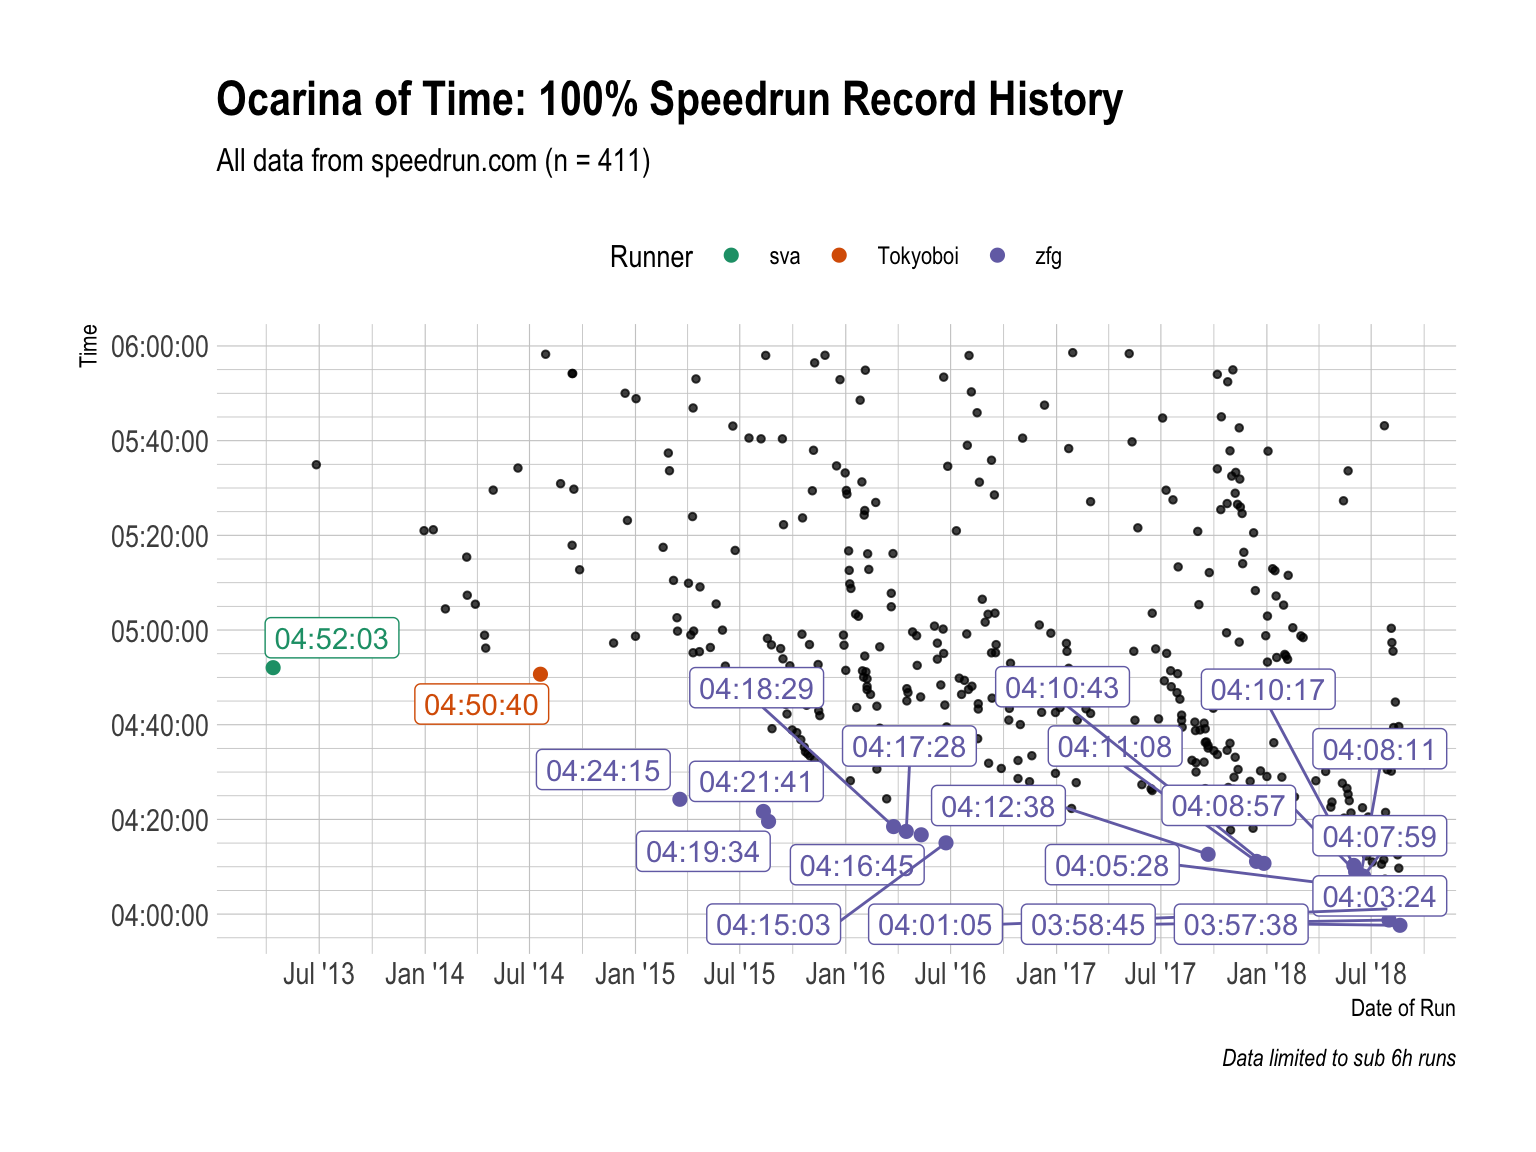
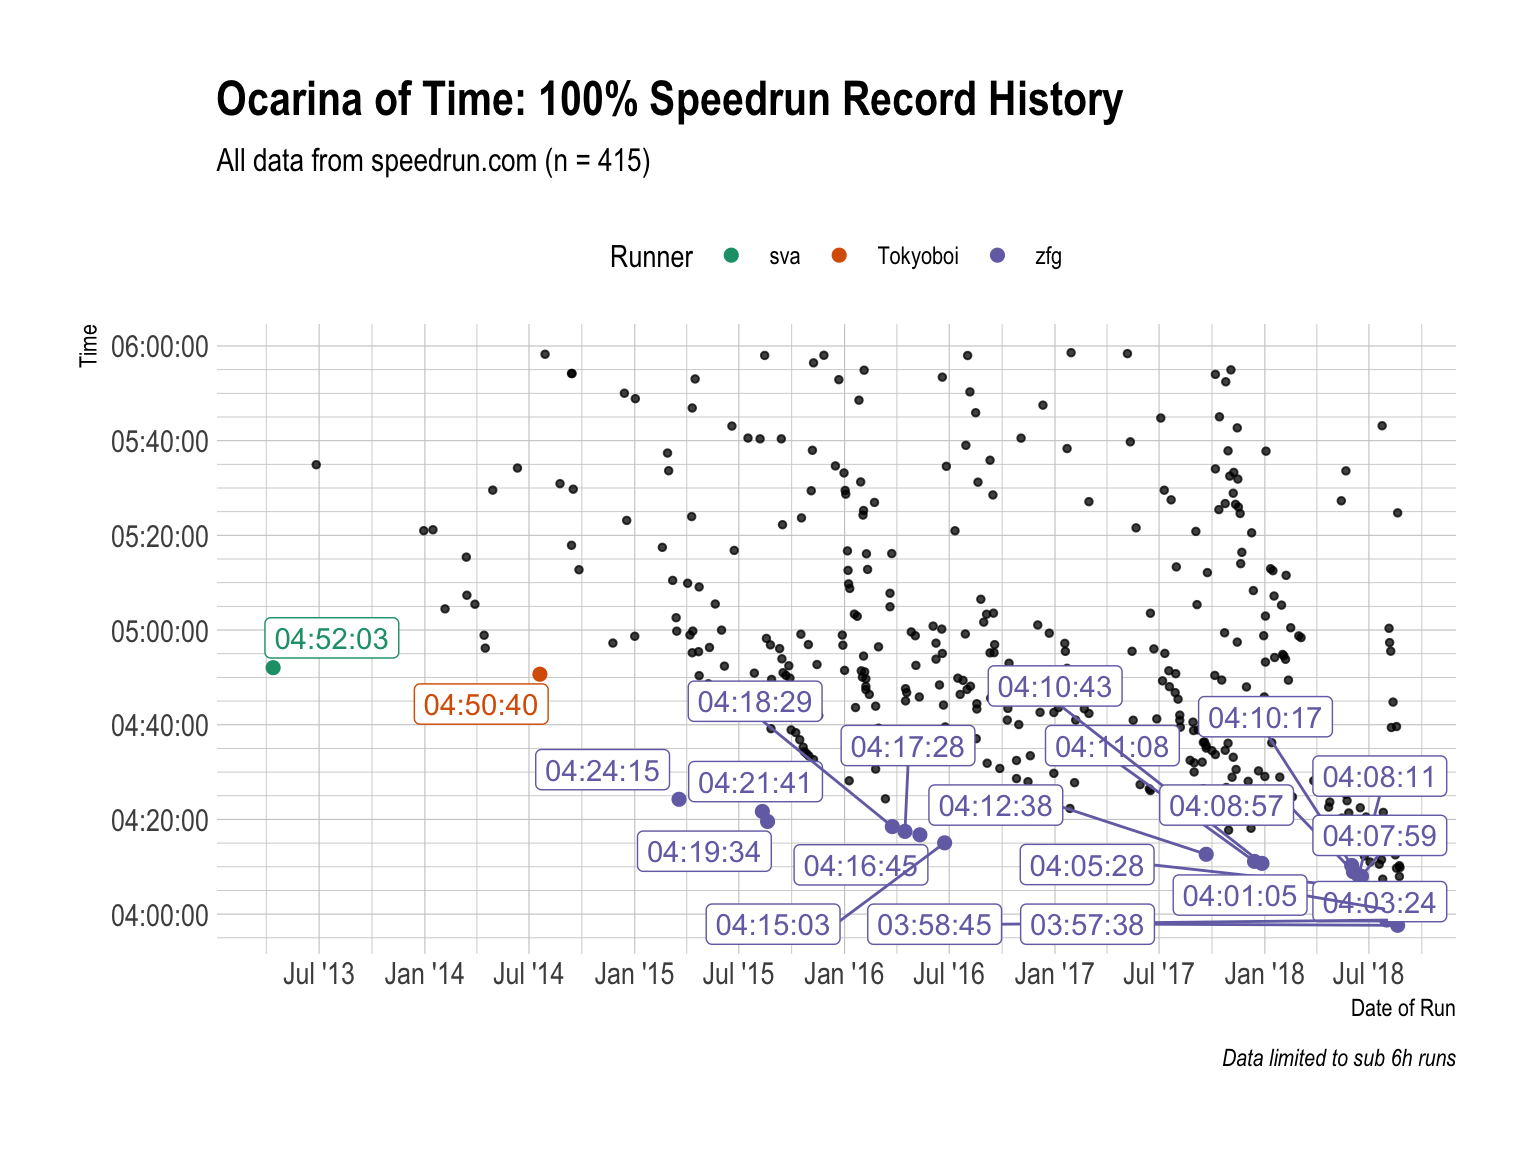
Rebuild everything

diff --git a/docs/articles/ocarina-of-time-100-.html b/docs/articles/ocarina-of-time-100-.html
@@ -82,7 +82,7 @@
       <h1>Ocarina of Time 100%</h1>
                         <h4 class="author">Lukas Burk</h4>
             
-            <h4 class="date">2018-08-21</h4>
+            <h4 class="date">2018-08-28</h4>
       
       <small class="dont-index">Source: <a href="https://github.com/jemus42/speedrunr/blob/master/vignettes/ocarina-of-time-100-.Rmd"><code>vignettes/ocarina-of-time-100-.Rmd</code></a></small>
       <div class="hidden name"><code>ocarina-of-time-100-.Rmd</code></div>
@@ -134,26 +134,26 @@
 <a class="sourceLine" id="cb3-4" data-line-number="4">oot100 &lt;-<span class="st"> </span><span class="kw"><a href="../reference/get_runs.html">get_runs</a></span>(<span class="dt">game =</span> <span class="st">"j1l9qz1g"</span>, <span class="dt">category =</span> <span class="st">"q255jw2o"</span>, <span class="dt">max =</span> <span class="ot">Inf</span>)</a></code></pre></div>
 <p>Note that I’m useing <code>max = Inf</code> to make sure I get <em>all</em> the runs.</p>
 <div class="sourceCode" id="cb4"><pre class="sourceCode r"><code class="sourceCode r"><a class="sourceLine" id="cb4-1" data-line-number="1"><span class="kw">str</span>(oot100)</a>
-<a class="sourceLine" id="cb4-2" data-line-number="2"><span class="co">#&gt; Classes 'tbl_df', 'tbl' and 'data.frame':    520 obs. of  22 variables:</span></a>
-<a class="sourceLine" id="cb4-3" data-line-number="3"><span class="co">#&gt;  $ id             : chr  "z5101qgm" "y89v3n5m" "zg7x36vz" "y6prk36m" ...</span></a>
-<a class="sourceLine" id="cb4-4" data-line-number="4"><span class="co">#&gt;  $ weblink        : chr  "https://www.speedrun.com/oot/run/z5101qgm" "https://www.speedrun.com/oot/run/y89v3n5m" "https://www.speedrun.com/oot/run/zg7x36vz" "https://www.speedrun.com/oot/run/y6prk36m" ...</span></a>
+<a class="sourceLine" id="cb4-2" data-line-number="2"><span class="co">#&gt; Classes 'tbl_df', 'tbl' and 'data.frame':    523 obs. of  22 variables:</span></a>
+<a class="sourceLine" id="cb4-3" data-line-number="3"><span class="co">#&gt;  $ id             : chr  "zp0317rm" "zn4oo77m" "z0369xjz" "z118jkjz" ...</span></a>
+<a class="sourceLine" id="cb4-4" data-line-number="4"><span class="co">#&gt;  $ weblink        : chr  "https://www.speedrun.com/oot/run/zp0317rm" "https://www.speedrun.com/oot/run/zn4oo77m" "https://www.speedrun.com/oot/run/z0369xjz" "https://www.speedrun.com/oot/run/z118jkjz" ...</span></a>
 <a class="sourceLine" id="cb4-5" data-line-number="5"><span class="co">#&gt;  $ game           : chr  "j1l9qz1g" "j1l9qz1g" "j1l9qz1g" "j1l9qz1g" ...</span></a>
 <a class="sourceLine" id="cb4-6" data-line-number="6"><span class="co">#&gt;  $ level          : logi  NA NA NA NA NA NA ...</span></a>
 <a class="sourceLine" id="cb4-7" data-line-number="7"><span class="co">#&gt;  $ category       : chr  "q255jw2o" "q255jw2o" "q255jw2o" "q255jw2o" ...</span></a>
-<a class="sourceLine" id="cb4-8" data-line-number="8"><span class="co">#&gt;  $ videos         : chr  "https://www.youtube.com/watch?v=zvEndHCMsTI" "https://youtu.be/xbkHEIH64kw" "https://youtu.be/I5XIjPs-WgI" "https://www.twitch.tv/videos/298946749" ...</span></a>
+<a class="sourceLine" id="cb4-8" data-line-number="8"><span class="co">#&gt;  $ videos         : chr  "https://youtu.be/UYduGXcjhZ4" "https://www.youtube.com/watch?v=89FA2_ZVpW4" "https://www.youtube.com/watch?v=VqGOGYBs-eA" "https://www.twitch.tv/videos/299897229" ...</span></a>
 <a class="sourceLine" id="cb4-9" data-line-number="9"><span class="co">#&gt;  $ status         : chr  "verified" "verified" "verified" "verified" ...</span></a>
-<a class="sourceLine" id="cb4-10" data-line-number="10"><span class="co">#&gt;  $ comment        : chr  "1st try dampe" "Missed the slash on Ganon, retimed to be 31 seconds, not 29. 6th try Dampe" NA "poop, ill learn jabu ww now" ...</span></a>
-<a class="sourceLine" id="cb4-11" data-line-number="11"><span class="co">#&gt;  $ player_id      : chr  "e8e5v680" "1xym2kmx" "18v6gkvx" "qjn35kwx" ...</span></a>
-<a class="sourceLine" id="cb4-12" data-line-number="12"><span class="co">#&gt;  $ player_url     : chr  "https://www.speedrun.com/user/zfg" "https://www.speedrun.com/user/MasterMonk1991" "https://www.speedrun.com/user/ClaireLynn" "https://www.speedrun.com/user/dannyb21892" ...</span></a>
-<a class="sourceLine" id="cb4-13" data-line-number="13"><span class="co">#&gt;  $ player_name    : chr  "zfg" "MasterMonk1991" "ClaireLynn" "dannyb21892" ...</span></a>
+<a class="sourceLine" id="cb4-10" data-line-number="10"><span class="co">#&gt;  $ comment        : chr  "4th try Dampe and lost a minute and a half to messing up the Twinrova 1 cycle. 4:07 coming soon!" "2nd try Dampe, but lost over 2 minutes in Spirit Temple. Gonna go for 4:07 before I am done with this category for a while." "4th try Dampe, sub 4:05 is my goal." "2nd try bridge clip" ...</span></a>
+<a class="sourceLine" id="cb4-11" data-line-number="11"><span class="co">#&gt;  $ player_id      : chr  "1xym2kmx" "1xym2kmx" "qj2okpxk" "qxk3yw98" ...</span></a>
+<a class="sourceLine" id="cb4-12" data-line-number="12"><span class="co">#&gt;  $ player_url     : chr  "https://www.speedrun.com/user/MasterMonk1991" "https://www.speedrun.com/user/MasterMonk1991" "https://www.speedrun.com/user/Bonooru" "https://www.speedrun.com/user/jfm2796" ...</span></a>
+<a class="sourceLine" id="cb4-13" data-line-number="13"><span class="co">#&gt;  $ player_name    : chr  "MasterMonk1991" "MasterMonk1991" "Bonooru" "jfm2796" ...</span></a>
 <a class="sourceLine" id="cb4-14" data-line-number="14"><span class="co">#&gt;  $ player_role    : chr  "user" "user" "user" "user" ...</span></a>
-<a class="sourceLine" id="cb4-15" data-line-number="15"><span class="co">#&gt;  $ player_signup  : POSIXct, format: "2015-02-17 03:55:57" "2017-01-08 21:04:08" ...</span></a>
-<a class="sourceLine" id="cb4-16" data-line-number="16"><span class="co">#&gt;  $ date           : Date, format: "2018-08-20" "2018-08-16" ...</span></a>
-<a class="sourceLine" id="cb4-17" data-line-number="17"><span class="co">#&gt;  $ submitted      : POSIXct, format: "2018-08-21 04:27:10" "2018-08-19 21:35:59" ...</span></a>
-<a class="sourceLine" id="cb4-18" data-line-number="18"><span class="co">#&gt;  $ time_primary   : int  14258 15151 17841 15269 16777 14982 15251 17087 25422 15329 ...</span></a>
-<a class="sourceLine" id="cb4-19" data-line-number="19"><span class="co">#&gt;  $ time_realtime  : int  14258 15151 17841 15269 16777 14982 15251 17087 25422 15329 ...</span></a>
+<a class="sourceLine" id="cb4-15" data-line-number="15"><span class="co">#&gt;  $ player_signup  : POSIXct, format: "2017-01-08 21:04:08" "2017-01-08 21:04:08" ...</span></a>
+<a class="sourceLine" id="cb4-16" data-line-number="16"><span class="co">#&gt;  $ date           : Date, format: "2018-08-24" "2018-08-23" ...</span></a>
+<a class="sourceLine" id="cb4-17" data-line-number="17"><span class="co">#&gt;  $ submitted      : POSIXct, format: "2018-08-24 10:36:10" "2018-08-23 14:48:18" ...</span></a>
+<a class="sourceLine" id="cb4-18" data-line-number="18"><span class="co">#&gt;  $ time_primary   : int  14990 15014 14877 19485 14258 15151 17841 15269 16777 14982 ...</span></a>
+<a class="sourceLine" id="cb4-19" data-line-number="19"><span class="co">#&gt;  $ time_realtime  : int  14990 15014 14877 19485 14258 15151 17841 15269 16777 14982 ...</span></a>
 <a class="sourceLine" id="cb4-20" data-line-number="20"><span class="co">#&gt;  $ time_ingame    : int  0 0 0 0 0 0 0 0 0 0 ...</span></a>
-<a class="sourceLine" id="cb4-21" data-line-number="21"><span class="co">#&gt;  $ time_hms       : 'hms' num  03:57:38 04:12:31 04:57:21 04:14:29 ...</span></a>
+<a class="sourceLine" id="cb4-21" data-line-number="21"><span class="co">#&gt;  $ time_hms       : 'hms' num  04:09:50 04:10:14 04:07:57 05:24:45 ...</span></a>
 <a class="sourceLine" id="cb4-22" data-line-number="22"><span class="co">#&gt;   ..- attr(*, "units")= chr "secs"</span></a>
 <a class="sourceLine" id="cb4-23" data-line-number="23"><span class="co">#&gt;  $ system_platform: chr  "nzelreqp" "nzelreqp" "nzelreqp" "nzelreqp" ...</span></a>
 <a class="sourceLine" id="cb4-24" data-line-number="24"><span class="co">#&gt;  $ system_emulated: logi  FALSE FALSE FALSE FALSE FALSE FALSE ...</span></a>
@@ -231,23 +231,23 @@
 <td align="left">JPN / NTSC</td>
 </tr>
 <tr class="even">
+<td align="left">04:07:57</td>
+<td align="left">Bonooru</td>
+<td align="left">2018-08-23</td>
+<td align="left">Wii Virtual Console</td>
+<td align="left">JPN / NTSC</td>
+</tr>
+<tr class="odd">
 <td align="left">04:07:59</td>
 <td align="left">zfg</td>
 <td align="left">2018-06-18</td>
 <td align="left">Wii Virtual Console</td>
 <td align="left">JPN / NTSC</td>
 </tr>
-<tr class="odd">
+<tr class="even">
 <td align="left">04:08:11</td>
 <td align="left">zfg</td>
 <td align="left">2018-06-13</td>
-<td align="left">Wii Virtual Console</td>
-<td align="left">JPN / NTSC</td>
-</tr>
-<tr class="even">
-<td align="left">04:08:57</td>
-<td align="left">zfg</td>
-<td align="left">2018-06-04</td>
 <td align="left">Wii Virtual Console</td>
 <td align="left">JPN / NTSC</td>
 </tr>

diff --git a/docs/index.html b/docs/index.html
@@ -365,69 +365,69 @@ Let’s get started:</p>
 <td align="left"><a href="https://www.speedrun.com/user/Marco" class="uri">https://www.speedrun.com/user/Marco</a></td>
 </tr>
 <tr class="even">
+<td align="left">2018-08-23 00:22:32</td>
+<td align="left">04:07:57</td>
+<td align="left"><a href="https://www.speedrun.com/user/Bonooru" class="uri">https://www.speedrun.com/user/Bonooru</a></td>
+</tr>
+<tr class="odd">
 <td align="left">2018-06-19 05:20:57</td>
 <td align="left">04:07:59</td>
 <td align="left"><a href="https://www.speedrun.com/user/zfg" class="uri">https://www.speedrun.com/user/zfg</a></td>
 </tr>
-<tr class="odd">
+<tr class="even">
 <td align="left">2018-06-14 04:01:53</td>
 <td align="left">04:08:11</td>
 <td align="left"><a href="https://www.speedrun.com/user/zfg" class="uri">https://www.speedrun.com/user/zfg</a></td>
 </tr>
-<tr class="even">
+<tr class="odd">
 <td align="left">2018-06-05 03:41:59</td>
 <td align="left">04:08:57</td>
 <td align="left"><a href="https://www.speedrun.com/user/zfg" class="uri">https://www.speedrun.com/user/zfg</a></td>
 </tr>
-<tr class="odd">
+<tr class="even">
 <td align="left">2018-08-18 03:12:47</td>
 <td align="left">04:09:42</td>
 <td align="left"><a href="https://www.speedrun.com/user/Bonooru" class="uri">https://www.speedrun.com/user/Bonooru</a></td>
 </tr>
+<tr class="odd">
+<td align="left">2018-08-24 10:36:10</td>
+<td align="left">04:09:50</td>
+<td align="left"><a href="https://www.speedrun.com/user/MasterMonk1991" class="uri">https://www.speedrun.com/user/MasterMonk1991</a></td>
+</tr>
 <tr class="even">
+<td align="left">2018-08-23 14:48:18</td>
+<td align="left">04:10:14</td>
+<td align="left"><a href="https://www.speedrun.com/user/MasterMonk1991" class="uri">https://www.speedrun.com/user/MasterMonk1991</a></td>
+</tr>
+<tr class="odd">
 <td align="left">2018-06-02 03:35:41</td>
 <td align="left">04:10:17</td>
 <td align="left"><a href="https://www.speedrun.com/user/zfg" class="uri">https://www.speedrun.com/user/zfg</a></td>
 </tr>
-<tr class="odd">
+<tr class="even">
 <td align="left">2018-07-20 01:17:13</td>
 <td align="left">04:10:32</td>
 <td align="left"><a href="https://www.speedrun.com/user/Marco" class="uri">https://www.speedrun.com/user/Marco</a></td>
 </tr>
-<tr class="even">
+<tr class="odd">
 <td align="left">2017-12-28 02:05:48</td>
 <td align="left">04:10:43</td>
 <td align="left"><a href="https://www.speedrun.com/user/zfg" class="uri">https://www.speedrun.com/user/zfg</a></td>
 </tr>
-<tr class="odd">
+<tr class="even">
 <td align="left">2018-07-03 02:09:52</td>
 <td align="left">04:11:00</td>
 <td align="left"><a href="https://www.speedrun.com/user/Marco" class="uri">https://www.speedrun.com/user/Marco</a></td>
 </tr>
-<tr class="even">
+<tr class="odd">
 <td align="left">2017-12-14 04:12:51</td>
 <td align="left">04:11:08</td>
 <td align="left"><a href="https://www.speedrun.com/user/zfg" class="uri">https://www.speedrun.com/user/zfg</a></td>
 </tr>
-<tr class="odd">
+<tr class="even">
 <td align="left">2018-07-23 02:36:34</td>
 <td align="left">04:11:30</td>
 <td align="left"><a href="https://www.speedrun.com/user/Bonooru" class="uri">https://www.speedrun.com/user/Bonooru</a></td>
-</tr>
-<tr class="even">
-<td align="left">2018-06-23 02:17:28</td>
-<td align="left">04:12:17</td>
-<td align="left"><a href="https://www.speedrun.com/user/Marco" class="uri">https://www.speedrun.com/user/Marco</a></td>
-</tr>
-<tr class="odd">
-<td align="left">2018-08-19 21:35:59</td>
-<td align="left">04:12:31</td>
-<td align="left"><a href="https://www.speedrun.com/user/MasterMonk1991" class="uri">https://www.speedrun.com/user/MasterMonk1991</a></td>
-</tr>
-<tr class="even">
-<td align="left">2018-08-13 04:23:12</td>
-<td align="left">04:14:11</td>
-<td align="left"><a href="https://www.speedrun.com/user/MasterMonk1991" class="uri">https://www.speedrun.com/user/MasterMonk1991</a></td>
 </tr>
 </tbody>
 </table>
@@ -535,29 +535,29 @@ Let’s get started:</p>
 </tr></thead>
 <tbody>
 <tr class="odd">
-<td align="right">15060</td>
+<td align="right">15586</td>
 <td align="left">JPN / NTSC</td>
 <td align="left">Wii Virtual Console</td>
 </tr>
 <tr class="even">
-<td align="right">15032</td>
+<td align="right">15399</td>
 <td align="left">JPN / NTSC</td>
 <td align="left">Wii Virtual Console</td>
 </tr>
 <tr class="odd">
-<td align="right">15269</td>
+<td align="right">26375</td>
 <td align="left">JPN / NTSC</td>
-<td align="left">Wii Virtual Console</td>
+<td align="left">Nintendo 64</td>
 </tr>
 <tr class="even">
-<td align="right">18431</td>
+<td align="right">18500</td>
 <td align="left">JPN / NTSC</td>
-<td align="left">Wii Virtual Console</td>
+<td align="left">Nintendo 64</td>
 </tr>
 <tr class="odd">
-<td align="right">14891</td>
+<td align="right">17928</td>
 <td align="left">JPN / NTSC</td>
-<td align="left">Wii Virtual Console</td>
+<td align="left">Nintendo 64</td>
 </tr>
 </tbody>
 </table>
